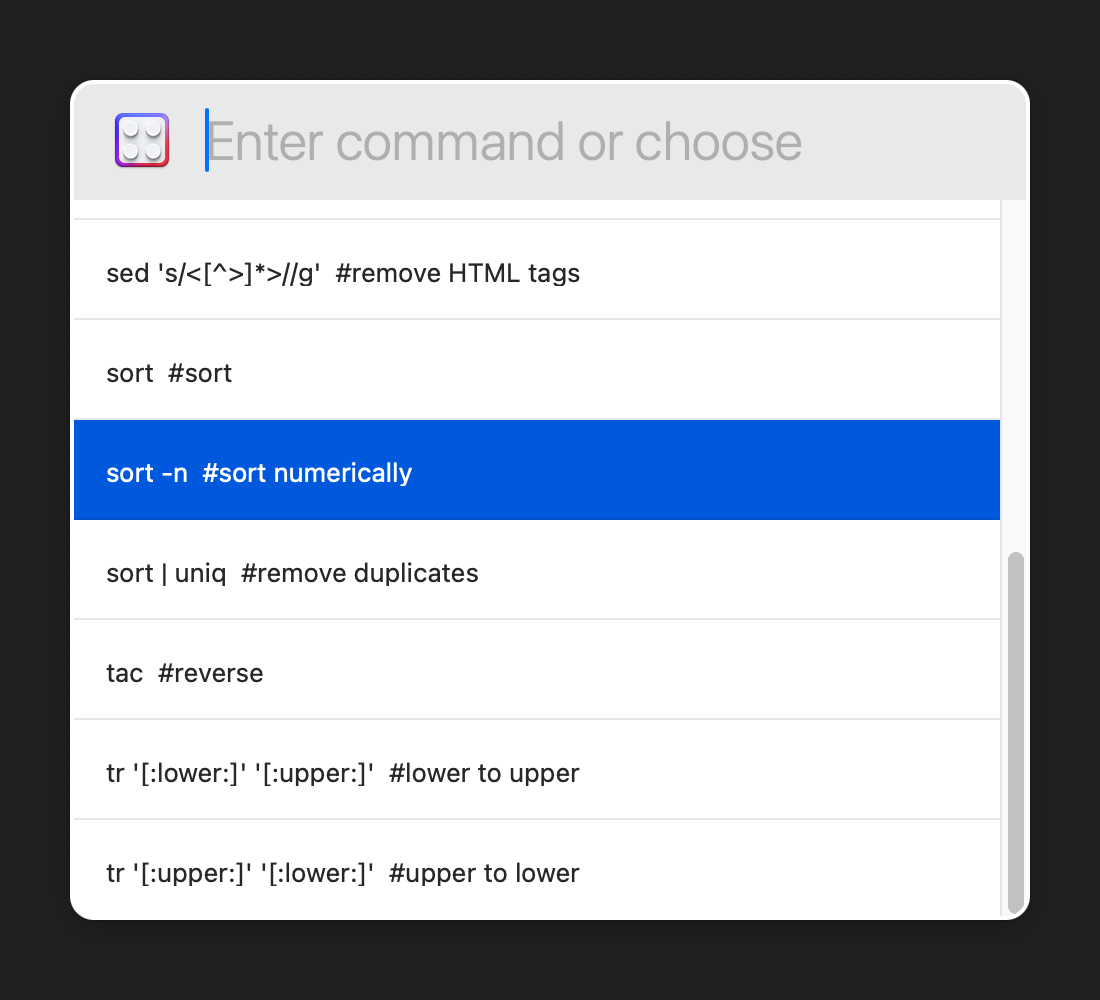
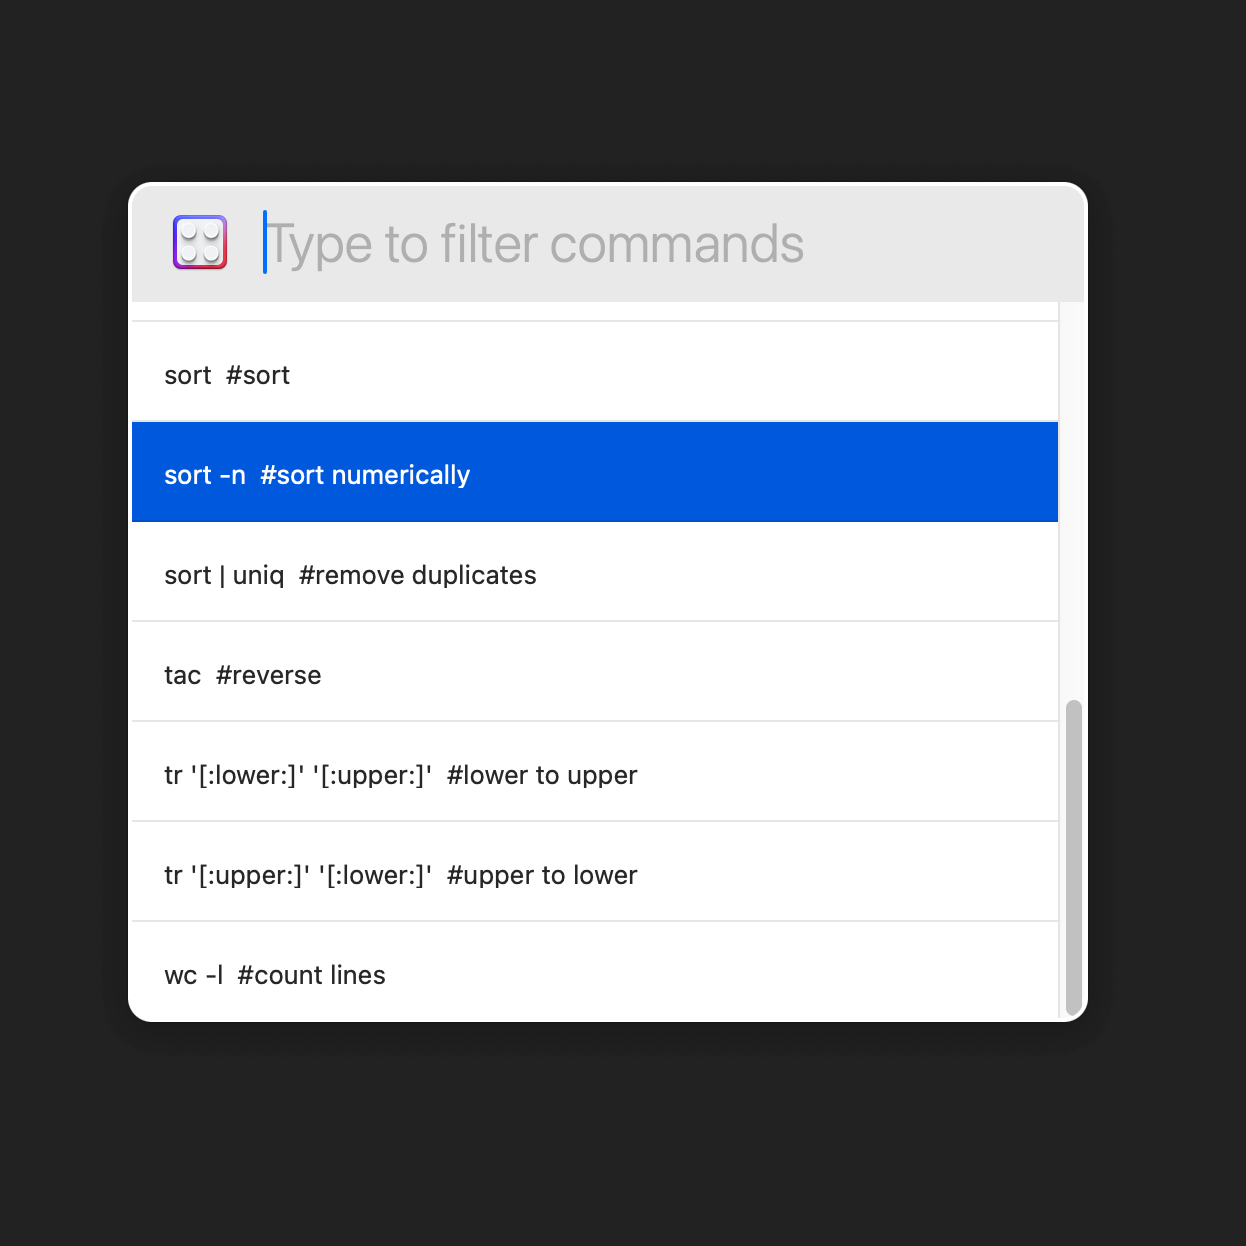
1.1.1

diff --git a/Filter Through Command.novaextension/Scripts/main.js b/Filter Through Command.novaextension/Scripts/main.js
@@ -21,7 +21,7 @@ function filterThroughCommand(editor) {
     const commands = nova.config.get(`${EXTENSION_IDENTIFIER}.commandList`) || ["sort -n"];
     
     let options = {
-        placeholder: "Enter command or choose"
+        placeholder: "Type to filter commands"
     };
     
     nova.workspace.showChoicePalette(commands, options, (command) => {

diff --git a/Filter Through Command.novaextension/README.md b/Filter Through Command.novaextension/README.md
@@ -14,8 +14,8 @@ To run Filter Through Command:
 
 You might also choose to set a keyboard shortcut using **Nova → Settings... → Key Bindings**, such as:
 
-- `Cmd`+`Control`+`|` to invoke `Filter Through Command...`
 - `Cmd`+`|` to invoke `Filter Through Custom Command...`
+- `Cmd`+`Control`+`|` to invoke `Filter Through Command...`
 
 
 ### Configuration
@@ -34,6 +34,10 @@ Output Mode:
 - Insert After
 - New Document
 
+Custom Command:
+
+- Your most recent custom command
+
 Command List:
 
 - add or remove new commands
@@ -44,6 +48,10 @@ Command List:
 
 ## Screenshots
 
+**Type your own command**
+
 ![](https://raw.githubusercontent.com/gingerbeardman/Filter-Through-Command/refs/heads/main/nova-filter-through-custom-command.png)
+
+**Pick from a library of commands**
 
 ![](https://raw.githubusercontent.com/gingerbeardman/Filter-Through-Command/refs/heads/main/nova-filter-through-command.png)

diff --git a/README.md b/README.md
@@ -8,7 +8,11 @@ See the internal [README](/Filter%20Through%20Command.novaextension/README.md) f
 
 Recommended download from [Nova Extensions](https://extensions.panic.com/extensions/com.gingerbeardman/com.gingerbeardman.FilterThroughCommand/) website.
 
+## Type your own command
+
 ![](nova-filter-through-custom-command.png)
+
+## Pick from a library of commands
 
 ![](nova-filter-through-command.png)
 

diff --git a/Filter Through Command.novaextension/CHANGELOG.md b/Filter Through Command.novaextension/CHANGELOG.md
@@ -1,3 +1,8 @@
+## Version 1.1.1
+
+Chane: labelling
+Fix: documentation changes
+
 ## Version 1.1.0
 
 Add: Filter Through Custom Command
